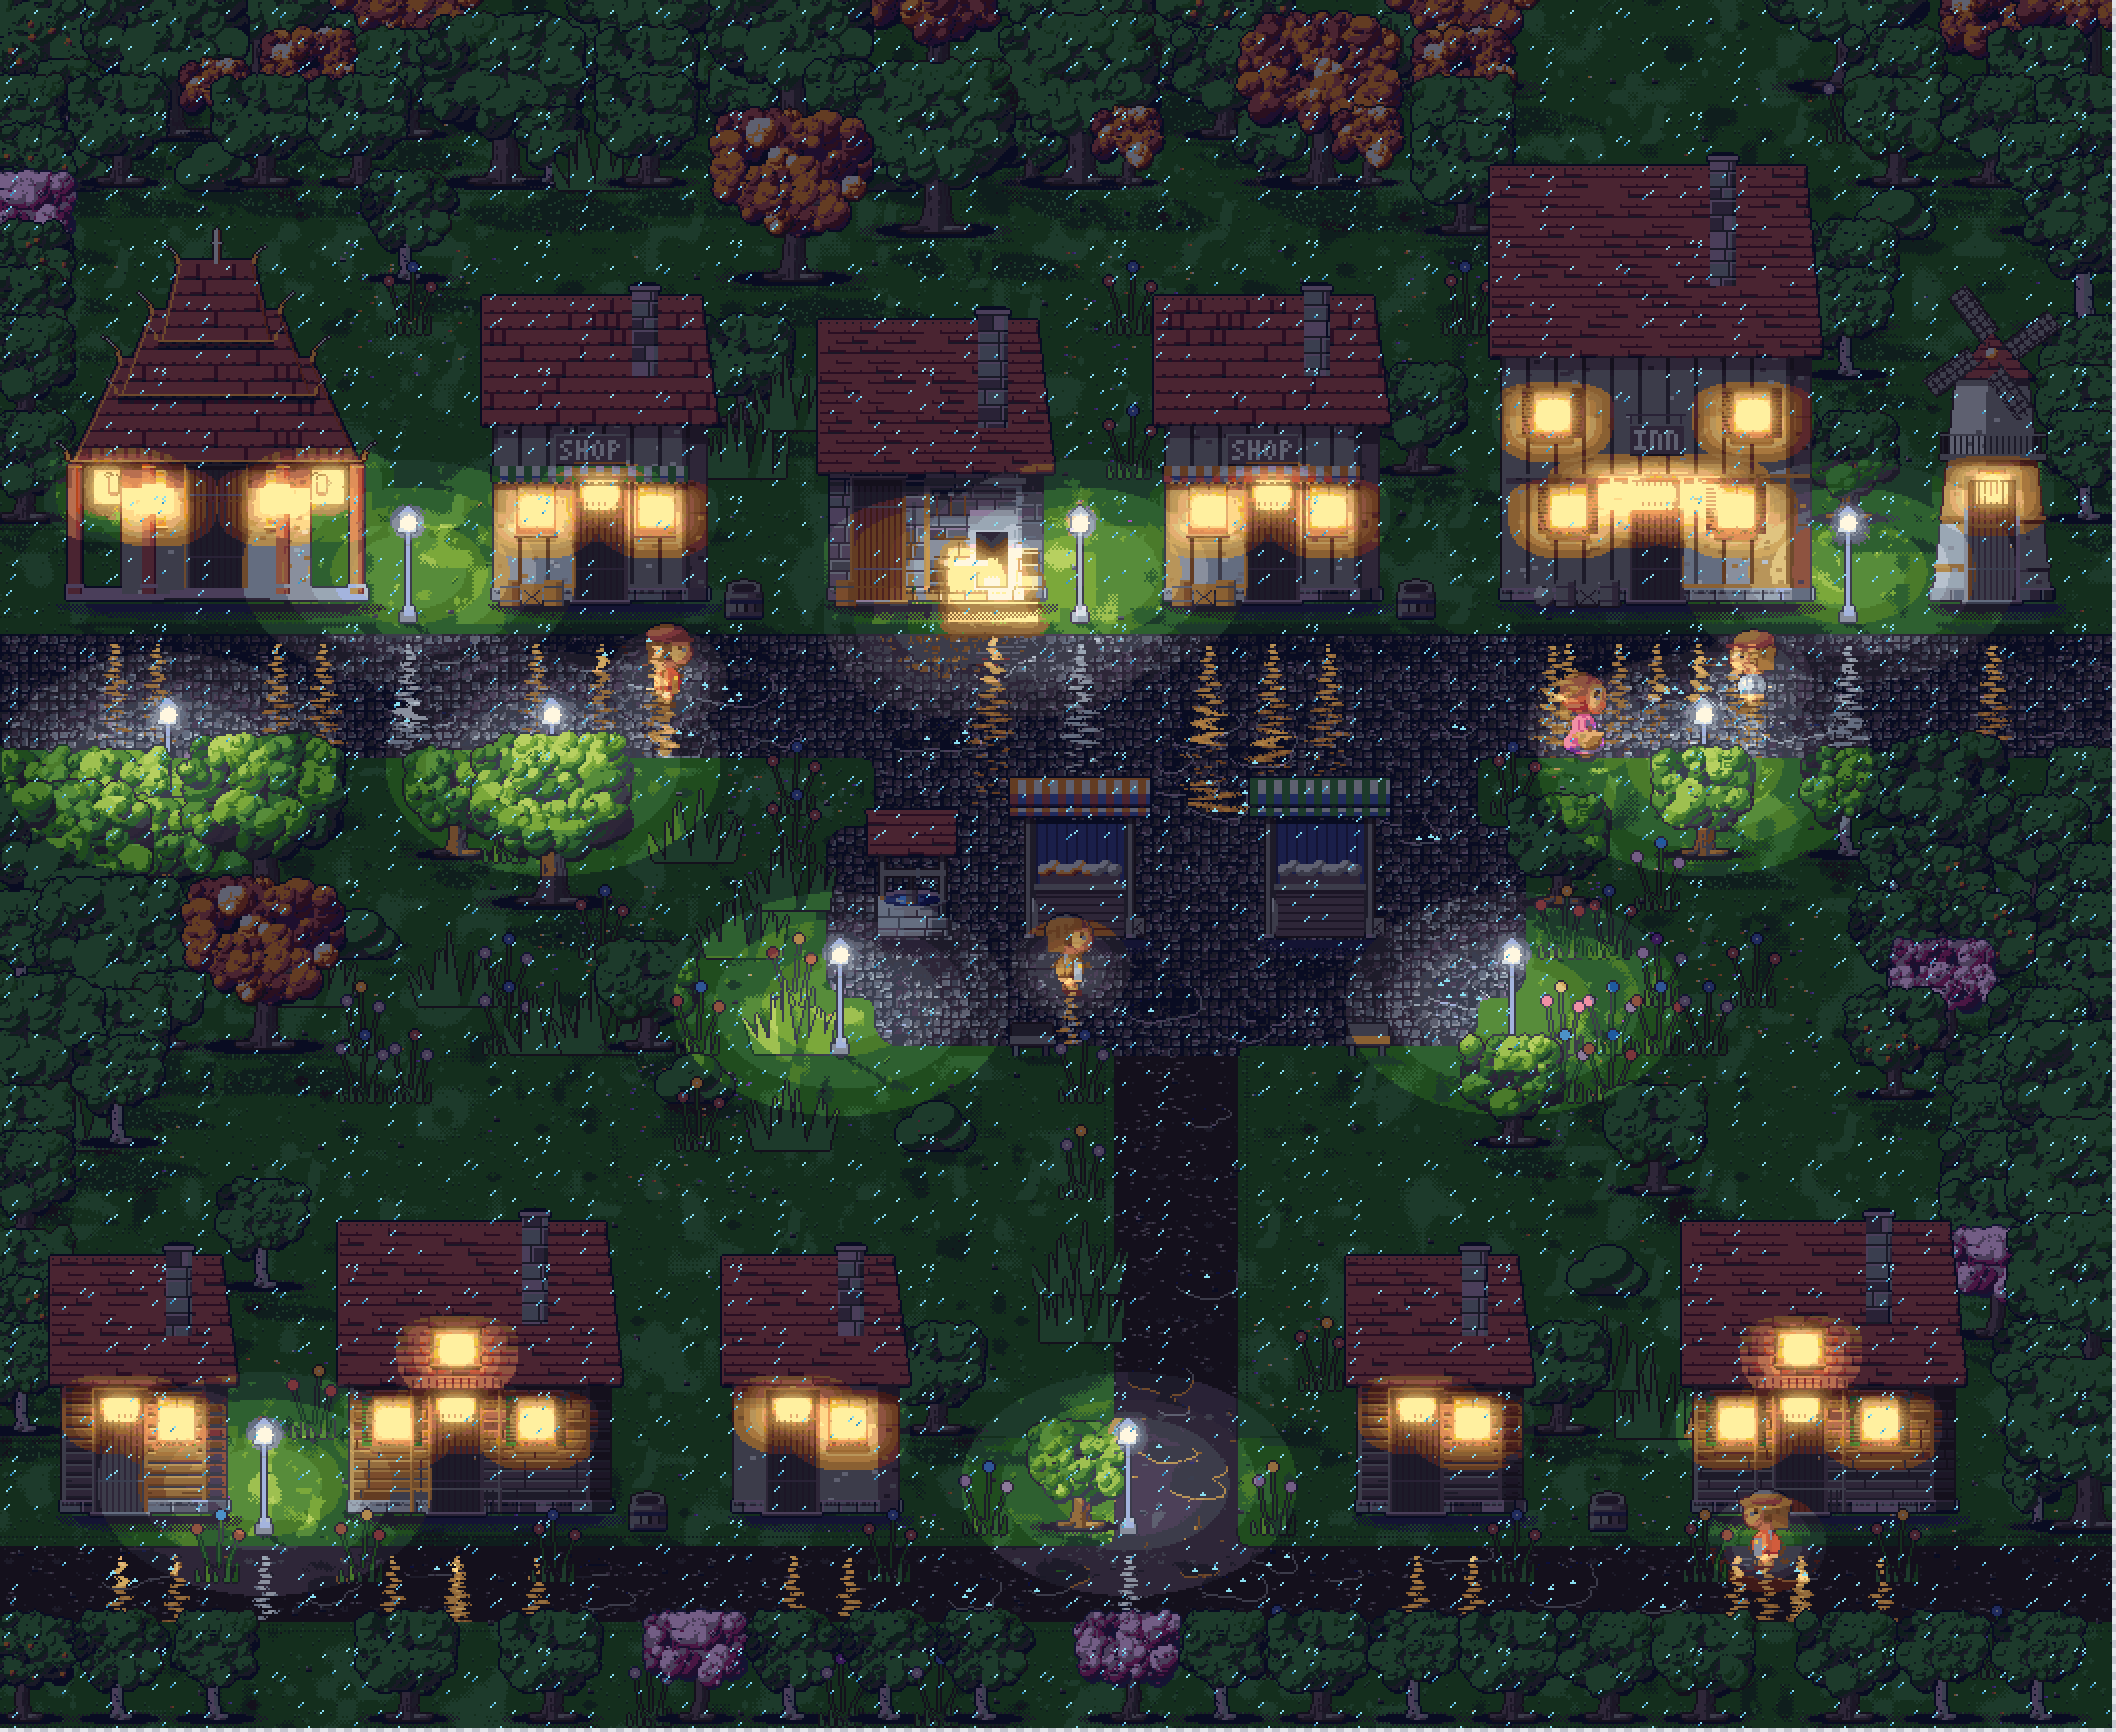
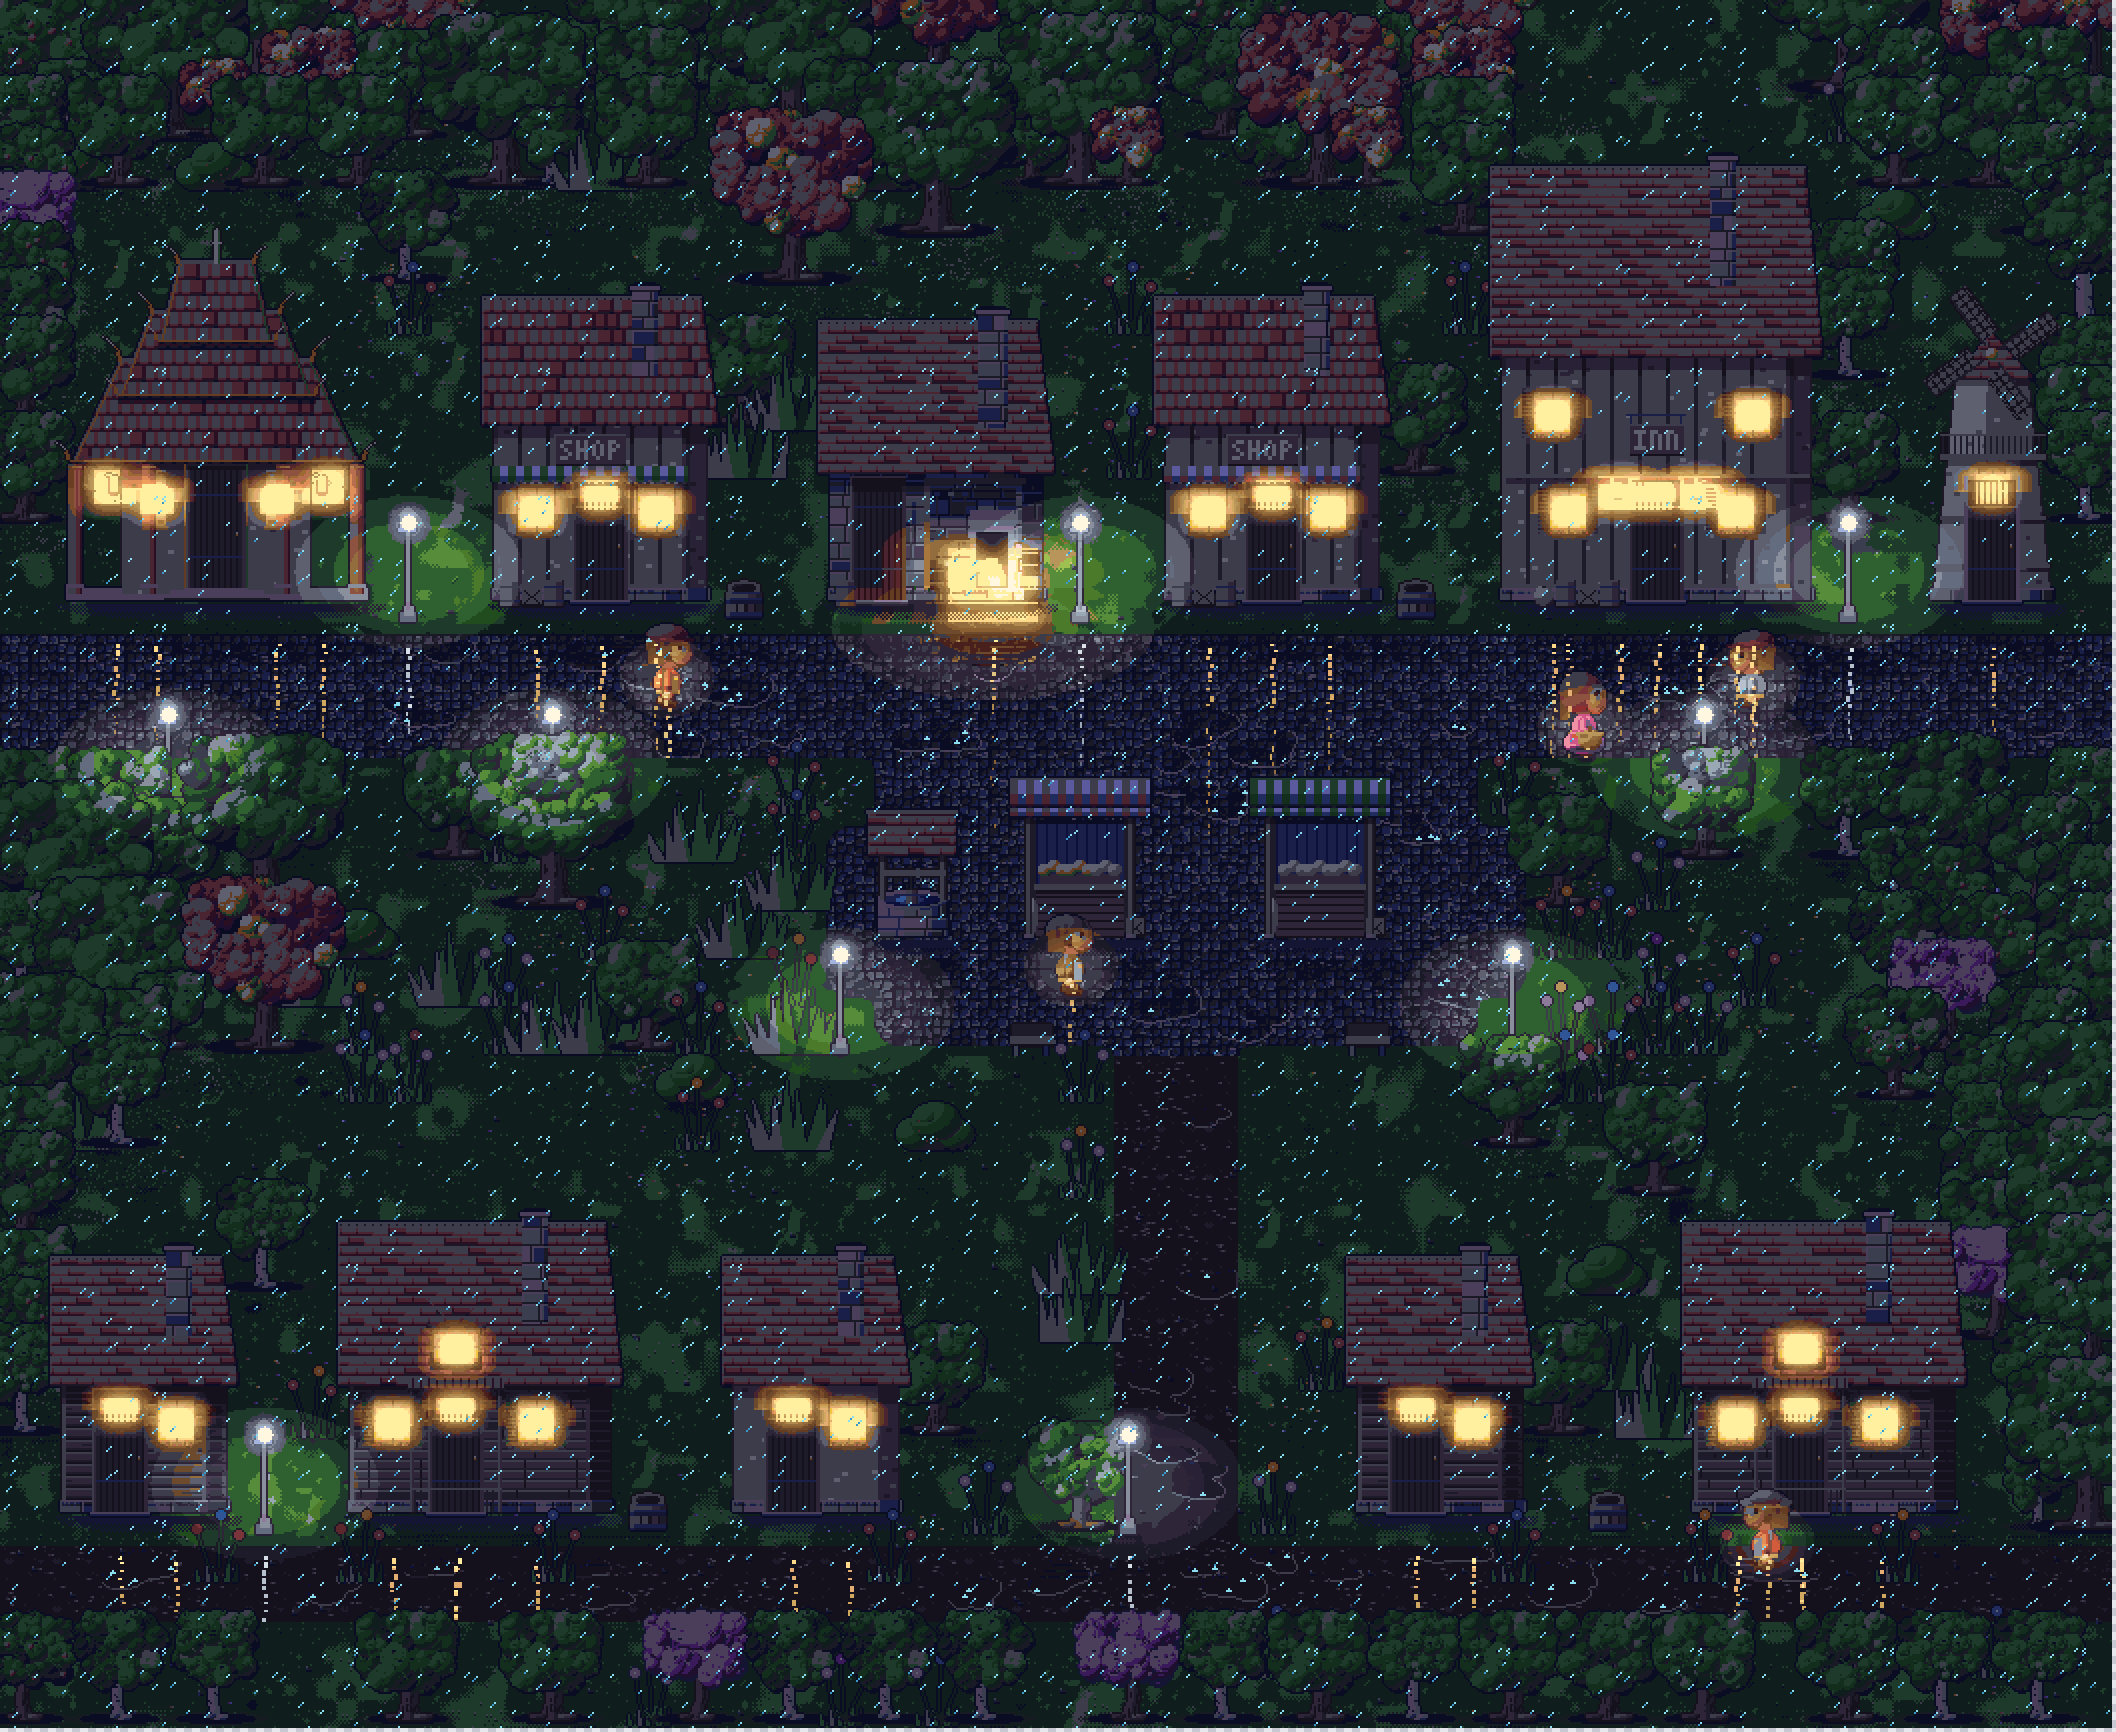
Rich night art pass: darker blue-green ambient, no pool rings, thin streaks, tight window spill; type tile.lights as Light

diff --git a/src/core/lightbuf.ts b/src/core/lightbuf.ts
@@ -21,8 +21,8 @@ interface KindSpec { color: V3; reach: number; gain: number; ground: boolean; em
 /** Colour (linear), glow radius as a multiple of `r`, intensity, whether it pools on the ground, self-illum radius. */
 const KINDS: Record<LightKind, KindSpec> = {
   point: { color: srgbLin(1, 0.85, 0.6), reach: 2, gain: 2.6, ground: false, emit: 0 },
-  lamp: { color: srgbLin(0.85, 0.92, 1), reach: 2, gain: 1.7, ground: true, emit: 2.6 },
-  window: { color: srgbLin(1, 0.76, 0.4), reach: 1.5, gain: 1.5, ground: false, emit: 0 },
+  lamp: { color: srgbLin(0.8, 0.88, 1), reach: 1.7, gain: 1.15, ground: true, emit: 2.6 },
+  window: { color: srgbLin(1, 0.76, 0.4), reach: 1, gain: 1.5, ground: false, emit: 0 },
   lantern: { color: srgbLin(1, 0.33, 0.18), reach: 2, gain: 2, ground: true, emit: 2.4 },
   vending: { color: srgbLin(0.6, 0.9, 1), reach: 2.3, gain: 2.6, ground: true, emit: 0 },
   fire: { color: srgbLin(1, 0.5, 0.14), reach: 2, gain: 2.2, ground: true, emit: 3 },
@@ -32,7 +32,7 @@ const KINDS: Record<LightKind, KindSpec> = {
 
 interface Ambient { mul: V3; floor: V3; desat: number; lights: number }
 const AMBIENT: Partial<Record<TimeOfDay, Ambient>> = {
-  night: { mul: [0.1, 0.12, 0.24], floor: [0.002, 0.004, 0.012], desat: 0.08, lights: 1 },
+  night: { mul: [0.08, 0.11, 0.24], floor: [0.002, 0.004, 0.012], desat: 0.08, lights: 1 },
   dusk: { mul: [0.46, 0.34, 0.52], floor: [0.004, 0.003, 0.008], desat: 0.1, lights: 0.55 },
   dawn: { mul: [0.55, 0.5, 0.66], floor: [0.006, 0.005, 0.01], desat: 0.1, lights: 0.3 },
 };
@@ -180,11 +180,14 @@ export function lightScene(img: Sprite, objects: LitObject[], kit: StyleKit, opt
     if (d) { ground[i] = GROUND.has(d.mat) ? 1 : 0; lvl[i] = d.level; ink[i] = d.mat === "ink" ? 1 : 0; }
     else lvl[i] = 3;
     const y = 0.2126 * c[0] + 0.7152 * c[1] + 0.0722 * c[2];
+    // greens sink to deep blue-green so the lights carry the scene
+    const green = d && (d.mat === "grass" || d.mat === "foliage") && opts.time === "night";
+    const dim = green ? 0.85 : 1, ds = green ? amb.desat + 0.12 : amb.desat;
     for (let k = 0; k < 3; k++) {
       // mild desaturation so very saturated materials do not scream at night, hue identity survives
-      const a = c[k] + (y - c[k]) * amb.desat;
-      alb[i * 3 + k] = a;
-      buf[i * 3 + k] = a * amb.mul[k] + amb.floor[k];
+      const a = c[k] + (y - c[k]) * ds;
+      alb[i * 3 + k] = c[k] + (y - c[k]) * 0.25;
+      buf[i * 3 + k] = a * amb.mul[k] * dim + amb.floor[k];
     }
   }
 
@@ -206,16 +209,19 @@ export function lightScene(img: Sprite, objects: LitObject[], kit: StyleKit, opt
         let d: number;
         const onGround = ground[i] === 1 && y >= l.y + 2;
         // pools are flattened ellipses centred between the lamp head and its foot; one shape for ground and walls
+        let Re = R;
         if (spec.ground) d = Math.hypot(x - l.x, (y - (l.y + gy) / 2) * 1.5);
+        else if (area && onGround) { d = Math.hypot(x - l.x, (y - (l.base + 2)) * 2.2); Re = Math.max(10, (l.r ?? 8) * 2.4); }
         else if (area) d = Math.hypot(Math.max(0, Math.abs(x - l.x) - hw), Math.max(0, Math.abs(y - l.y) - hh) * (y > l.y ? 1.3 : 2.2));
         else d = Math.hypot(x - l.x, (y - l.y) * 1.2);
-        const f = band(Math.pow(falloff(d / R), 1.25), STEPS);
+        // the outer band is cut so the pool fades into the ambient instead of ending in a ring
+        const f = band(Math.max(0, Math.pow(falloff(d / Re), 1.25) - 0.14) / 0.86, STEPS);
         if (f <= 0) continue;
         // cheap normal: surfaces that are lighter on their ramp face up; light from above favours them
         const up = lvl[i] / 4, above = y > l.y;
         const facing = onGround ? 1 : above ? 0.62 + 0.38 * up : 0.62 + 0.38 * (1 - up);
         const k = f * facing * gain * (ink[i] ? 0.5 : 1);
-        for (let c = 0; c < 3; c++) buf[i * 3 + c] += (alb[i * 3 + c] * 0.85 + 0.035) * color[c] * k;
+        for (let c = 0; c < 3; c++) buf[i * 3 + c] += (alb[i * 3 + c] * 0.8 + 0.03) * color[c] * k;
         lit[i] += f;
       }
     // self-illumination: the lamp head / lantern / pane glows in its own colour
@@ -244,7 +250,7 @@ export function lightScene(img: Sprite, objects: LitObject[], kit: StyleKit, opt
   // wet ground: long vertical streaks of every light, strongest in puddles
   const f = opts.field;
   if (f) {
-    const streakLen = Math.round(tile * 3.5);
+    const streakLen = Math.round(tile * 4);
     for (const l of lights) {
       const spec = KINDS[l.kind];
       if (l.kind === "moon") continue;
@@ -252,27 +258,27 @@ export function lightScene(img: Sprite, objects: LitObject[], kit: StyleKit, opt
       const gain = (l.intensity ?? 1) * amb.lights;
       const drop = Math.min(10, Math.max(0, l.base - l.y) * 0.3);
       const y0 = Math.round(l.base + 1 + drop), ph = hash(Math.round(l.x), Math.round(l.y), seed) * 6.28;
-      const wide = (l.r ?? 8) >= 10 ? 2 : 1;
-      for (let t = 0; t < streakLen; t++) {
+      const ripple = Math.round(ph * 3);
+      for (let t = 0; t < streakLen * 1.4; t++) {
         const y = y0 + t;
         if (y >= h) break;
         const fade = band(Math.exp(-t / (streakLen * 0.5)), 5);
-        const cx = l.x + Math.sin(t * 0.8 + ph) * (0.5 + t / 9);
-        const spread = wide + t / 10;
-        for (let x = Math.floor(cx - spread - 1); x <= Math.ceil(cx + spread + 1); x++) {
+        // +-1 px jitter that changes every few rows, never a wave
+        const jit = Math.round(hash(Math.floor((t + ripple) / 4), Math.round(l.x), seed + 3) * 2 - 1);
+        const cx = Math.round(l.x) + jit;
+        const width = t < streakLen * 0.35 && (l.r ?? 8) >= 10 ? 2 : 1;
+        for (let x = cx; x < cx + width; x++) {
           if (x < 0 || x >= w) continue;
           const i = y * w + x;
           if (!f.wet[i]) continue;
           const inP = f.puddle[i] > 0;
-          const dx = Math.abs(x - cx);
-          if (dx > spread) continue;
-          // horizontal dashes with ripple gaps; the centre column stays most continuous
-          const gap = inP ? (t + Math.round(ph)) % 7 === 6 : (t + Math.round(ph)) % 3 === 2;
-          const edge = dx > spread * 0.55 && (x + t * 2) % 3 === 0;
-          if (gap || edge) continue;
-          const s = fade * gain * (inP ? 1.15 : 0.55) * (1 - dx / (spread + 1) * 0.5);
-          if (s < 0.1) continue;
-          for (let c = 0; c < 3; c++) buf[i * 3 + c] += color[c] * s * 0.9;
+          if (!inP && t > streakLen) continue;
+          // dashes of 1-3 px with a 1 px gap
+          const seg = Math.floor((t + ripple) / 4), dash = 1 + Math.floor(hash(seg, Math.round(l.x), seed + 5) * 3);
+          if ((t + ripple) % 4 >= dash + (inP ? 0 : 0)) continue;
+          const sv = fade * gain * (inP ? 1.4 : 0.9);
+          if (sv < 0.12) continue;
+          for (let c = 0; c < 3; c++) buf[i * 3 + c] += color[c] * sv * 1.3;
           lit[i] += 0.5;
         }
       }

diff --git a/src/core/types.ts b/src/core/types.ts
@@ -87,7 +87,7 @@ export interface TileMap {
   rows: number;
   tile: number;
   /** Ordered tile set. Each entry is a sprite (copied in, so maps are self-contained). */
-  tiles: { name: string; sprite: Sprite; solid?: boolean; /** light emitters in sprite px (a rich building's windows, lamps, forge) */ lights?: { x: number; y: number; r: number }[] }[];
+  tiles: { name: string; sprite: Sprite; solid?: boolean; /** light emitters in sprite px (a rich building's windows, lamps, forge) */ lights?: import("./lighting").Light[] }[];
   /** Ground layer: index into tiles, -1 empty. */
   ground: number[];
   /** Decoration layer drawn on top (trees, rocks...). */
